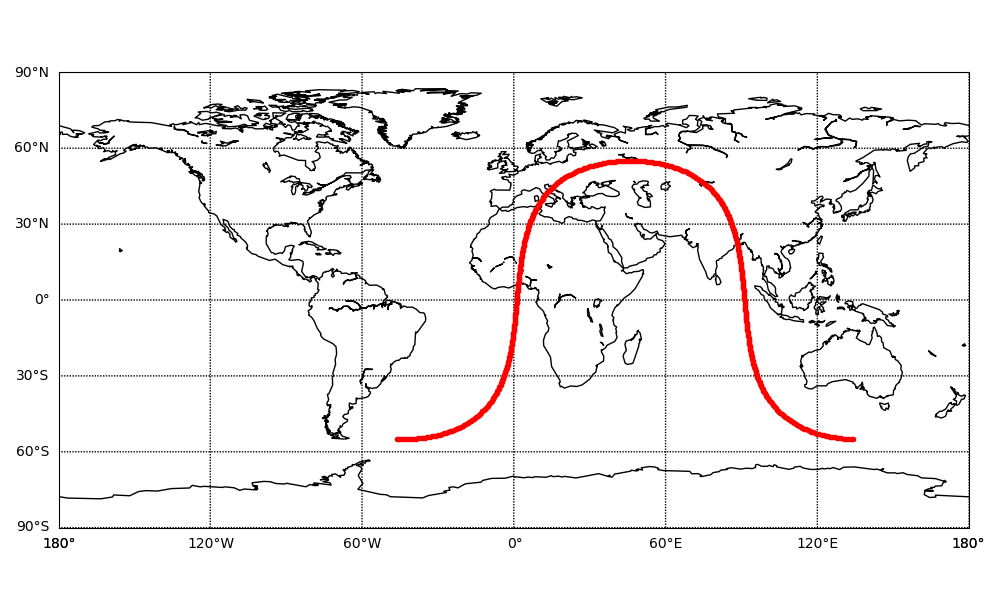
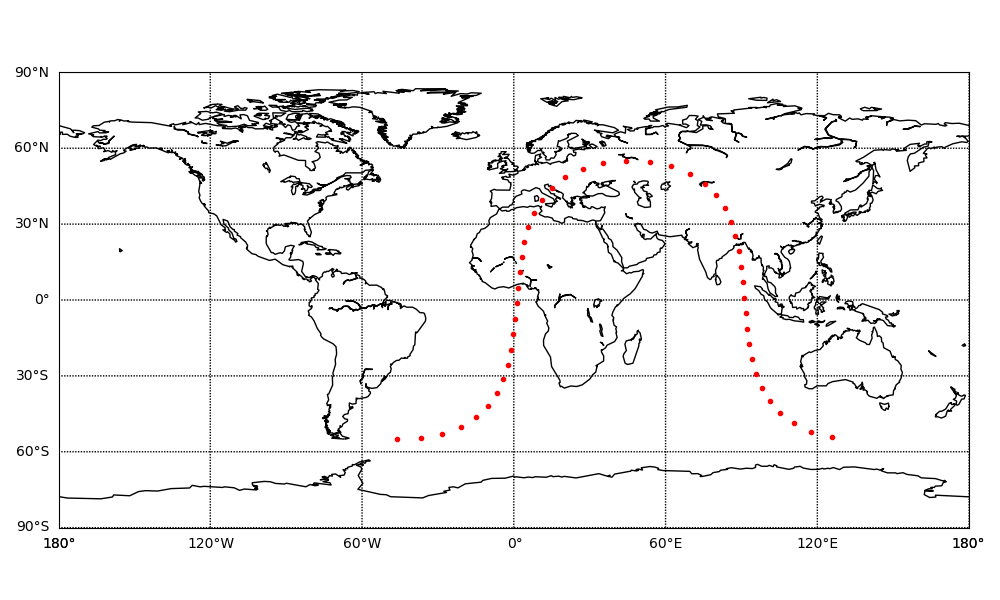
changed the figures edge spacing

diff --git a/analysis.py b/analysis.py
@@ -56,8 +56,7 @@ class AnalysisCovDepthOfCoverage(AnalysisBase):
             satellite.metric[sm.cnt_epoch, 2] = satellite.num_stat_in_view
 
     def after_loop(self, sm):
-        fig = plt.figure(figsize=(10, 6))
-        plt.subplots_adjust(left=.1, right=.95, top=0.95, bottom=0.07)
+        fig = plt.figure(figsize=(10, 5))
         for satellite in sm.satellites:
             plt.scatter(satellite.metric[:, 1], satellite.metric[:, 0],
                         c=satellite.metric[:, 2])
@@ -68,6 +67,7 @@ class AnalysisCovDepthOfCoverage(AnalysisBase):
         for station in sm.stations:
             plt.plot(degrees(station.lla[1]), degrees(station.lla[0]), 'r^')
         m.drawcoastlines()
+        plt.subplots_adjust(left=.12, right=.999, top=0.999, bottom=0.01)
         plt.text(50, 80, 'Red triangles: station locations')
         plt.savefig('output/'+self.type+'.png')
         plt.show()
@@ -107,8 +107,7 @@ class AnalysisCovGroundTrack(AnalysisBase):
 
     def after_loop(self, sm):
 
-        fig = plt.figure(figsize=(10, 6))
-        plt.subplots_adjust(left=.1, right=.95, top=0.95, bottom=0.07)
+        fig = plt.figure(figsize=(10, 5))
         m = Basemap(projection='cyl', lon_0=0)
         m.drawparallels(np.arange(-90., 99., 30.), labels=[True, False, False, True])
         m.drawmeridians(np.arange(-180., 180., 60.), labels=[True, False, False, True])
@@ -124,7 +123,7 @@ class AnalysisCovGroundTrack(AnalysisBase):
                 y, x = satellite.metric[:, 0], satellite.metric[:, 1]
                 plt.plot(x, y, '+', label=str(satellite.sat_id))
             plt.legend(fontsize=8)
-        plt.tight_layout()
+        plt.subplots_adjust(left=.08, right=.95, top=0.9, bottom=0.1)
         plt.savefig('output/'+self.type+'.png')
         plt.show()
 
@@ -153,14 +152,13 @@ class AnalysisCovPassTime(AnalysisBase):
                     user.metric[sm.cnt_epoch, user.idx_sat_in_view[j]] = True
 
     def after_loop(self, sm):
-        fig = plt.figure(figsize=(10, 6))
-        plt.subplots_adjust(left=.1, right=.9, top=0.99, bottom=0.01)
+        fig = plt.figure(figsize=(10, 5))
         lats, lons = [], []
         time_step = int((self.times_mjd[1] - self.times_mjd[0]) * 86400)
         metric = np.zeros(len(sm.users))
-        for idx_usr, user in sm.users:
+        for idx_usr, user in enumerate(sm.users):
             valid_value_list = []  # Define and clear
-            for idx_sat, satellite in sm.satellites:
+            for idx_sat, satellite in enumerate(sm.satellites):
                 for idx_tim in range(1, len(self.times_f_doy)):  # Loop over time (ignoring first)
                     if user.metric[idx_tim - 1][idx_sat] and not user.metric[idx_tim][idx_sat]:  # End pass detected
                         length_of_pass = 1  # Compute the length of the pass
@@ -201,6 +199,7 @@ class AnalysisCovPassTime(AnalysisBase):
         m.drawcoastlines()
         cb = m.colorbar(im1, "right", size="2%", pad="2%")
         cb.set_label(self.statistic + ' Pass Time Interval [s]', fontsize=10)
+        plt.subplots_adjust(left=.1, right=.9, top=0.9, bottom=0.1)
         plt.savefig('output/'+self.type+'.png')
         plt.show()
 
@@ -211,6 +210,7 @@ class AnalysisCovSatelliteContour(AnalysisBase):
         super().__init__()
         self.constellation_id = 0  # Mandatory
         self.satellite_id = ''  # Mandatory
+        self.elevation_mask = 0  # Mandatory
         self.idx_found_satellite = 0
 
     def read_config(self, node):
@@ -218,6 +218,8 @@ class AnalysisCovSatelliteContour(AnalysisBase):
             self.constellation_id = int(node.find('ConstellationID').text)
         if node.find('SatelliteID') is not None:
             self.satellite_id = int(node.find('SatelliteID').text)
+        if node.find('ElevationMask') is not None:
+            self.elevation_mask = float(node.find('ElevationMask').text)
 
     def before_loop(self, sm):
         # Find the index of the satellite that is needed
@@ -231,15 +233,15 @@ class AnalysisCovSatelliteContour(AnalysisBase):
         pass
 
     def after_loop(self, sm):
-        fig = plt.figure(figsize=(10, 6))
-        plt.subplots_adjust(left=.1, right=.95, top=0.95, bottom=0.07)
+        fig = plt.figure(figsize=(10, 5))
         sm.satellites[self.idx_found_satellite].det_lla()
         contour = misc_fn.sat_contour(sm.satellites[self.idx_found_satellite].lla, self.elevation_mask)
         m = Basemap(projection='cyl', lon_0=0)
         m.drawparallels(np.arange(-90., 99., 30.), labels=[True, False, False, True])
         m.drawmeridians(np.arange(-180., 180., 60.), labels=[True, False, False, True])
         m.drawcoastlines()
-        plt.plot(degrees(contour[:, 1]), degrees(contour[:, 0]), 'r.')
+        plt.plot(contour[:, 1]/PI*180, contour[:, 0]/PI*180, 'r.')
+        plt.subplots_adjust(left=.1, right=.9, top=0.9, bottom=0.1)
         plt.savefig('output/'+self.type+'.png')
         plt.show()
 
@@ -249,10 +251,13 @@ class AnalysisCovSatelliteHighest(AnalysisBase):
     def __init__(self):
         super().__init__()
         self.statistic = ''  # Mandatory
+        self.constellation_id = 0  # Mandatory
 
     def read_config(self, node):
         if node.find('Statistic') is not None:
             self.statistic = node.find('Statistic').text
+        if node.find('ConstellationID') is not None:
+            self.constellation_id = int(node.find('ConstellationID').text)
 
     def before_loop(self, sm):
         for user in sm.users:
@@ -269,8 +274,7 @@ class AnalysisCovSatelliteHighest(AnalysisBase):
             user.metric[sm.cnt_epoch] = best_satellite_value
 
     def after_loop(self, sm):
-        fig = plt.figure(figsize=(10, 6))
-        plt.subplots_adjust(left=.1, right=.9, top=0.99, bottom=0.01)
+        fig = plt.figure(figsize=(10, 5))
         metric, lats, lons = [], [], []
         for user in sm.users:
             if self.statistic == 'Min':
@@ -295,6 +299,7 @@ class AnalysisCovSatelliteHighest(AnalysisBase):
         m.drawcoastlines()
         cb = m.colorbar(im1, "right", size="2%", pad="2%")
         cb.set_label(self.statistic + ' of Max Elevation satellites in view', fontsize=10)
+        plt.subplots_adjust(left=.1, right=.9, top=0.9, bottom=0.1)
         plt.savefig('output/'+self.type+'.png')
         plt.show()
 
@@ -427,7 +432,7 @@ class AnalysisCovSatelliteVisibleGrid(AnalysisBase):
 
     def read_config(self, node):
         if node.find('Statistic') is not None:
-            self.statistic = int(node.find('Statistic').text)
+            self.statistic = node.find('Statistic').text
 
     def before_loop(self, sm):
         for user in sm.users:
@@ -438,9 +443,9 @@ class AnalysisCovSatelliteVisibleGrid(AnalysisBase):
             user.metric[sm.cnt_epoch] = user.num_sat_in_view
 
     def after_loop(self, sm):
-        fig = plt.figure(figsize=(10, 6))
+        fig = plt.figure(figsize=(10, 5))
         plt.subplots_adjust(left=.1, right=.9, top=0.99, bottom=0.01)
-        metric, lats, lons = [], [], []
+        metric, latitudes, longitudes = [], [], []
         for user in sm.users:
             if self.statistic == 'Min':
                 metric.append(np.min(user.metric))
@@ -452,10 +457,10 @@ class AnalysisCovSatelliteVisibleGrid(AnalysisBase):
                 metric.append(np.std(user.metric))
             if self.statistic == 'Median':
                 metric.append(np.median(user.metric))
-            lats.append(degrees(user.lla[0]))
-            lons.append(degrees(user.lla[1]))
-        x_new = np.reshape(np.array(lons), (sm.users[0].num_lat, sm.users[0].num_lon))
-        y_new = np.reshape(np.array(lats), (sm.users[0].num_lat, sm.users[0].num_lon))
+            latitudes.append(degrees(user.lla[0]))
+            longitudes.append(degrees(user.lla[1]))
+        x_new = np.reshape(np.array(longitudes), (sm.users[0].num_lat, sm.users[0].num_lon))
+        y_new = np.reshape(np.array(latitudes), (sm.users[0].num_lat, sm.users[0].num_lon))
         z_new = np.reshape(np.array(metric), (sm.users[0].num_lat, sm.users[0].num_lon))
         m = Basemap(projection='cyl', lon_0=0)
         im1 = m.pcolormesh(x_new, y_new, z_new, shading='flat', cmap=plt.cm.jet, latlon=True)
@@ -463,7 +468,8 @@ class AnalysisCovSatelliteVisibleGrid(AnalysisBase):
         m.drawmeridians(np.arange(-180., 180., 60.), labels=[True, False, False, True])
         m.drawcoastlines()
         cb = m.colorbar(im1, "right", size="2%", pad="2%")
-        cb.set_label(self.Statistic + ' Number of satellites in view', fontsize=10)
+        cb.set_label(self.statistic + ' Number of satellites in view', fontsize=10)
+        plt.subplots_adjust(left=.1, right=.9, top=0.9, bottom=0.1)
         plt.savefig('output/'+self.type+'.png')
         plt.show()
 

diff --git a/config.py b/config.py
@@ -264,7 +264,7 @@ class AppConfig:
                     self.gr2sp[idx_station][idx_sat].link_in_use = True
                 else:
                     self.gr2sp[idx_station][idx_sat].link_in_use = False
-        ls.logger.info(["Loaded: ", len(self.gr2sp), " number of Ground Station to Spacecraft links"])
+        ls.logger.info(f'Loaded {len(self.gr2sp)*self.num_sat} number of Station to Spacecraft links')
 
         # USER <->SATELLITE LINKS
         self.usr2sp = [[User2SpaceLink() for j in range(self.num_sat)] for i in range(self.num_user)]
@@ -274,7 +274,7 @@ class AppConfig:
                     self.usr2sp[idx_user][idx_sat].link_in_use = True
                 else:
                     self.usr2sp[idx_user][idx_sat].link_in_use = False
-        ls.logger.info(["Loaded: ", len(self.usr2sp), " number of User to Spacecraft links"])
+        ls.logger.info(f'Loaded {len(self.usr2sp)*self.num_sat} number of User to Spacecraft links')
 
         # SATELLITE <->SATELLITE LINKS
         self.sp2sp = [[Space2SpaceLink() for j in range(self.num_sat)] for i in range(self.num_sat)]
@@ -283,11 +283,11 @@ class AppConfig:
                 if idx_sat1 != idx_sat2:  # avoid link to itself
                     self.sp2sp[idx_sat1][idx_sat2].idx_sat_tx = idx_sat1
                     self.sp2sp[idx_sat1][idx_sat2].idx_sat_rx = idx_sat2
-        ls.logger.info(["Loaded: ", len(self.sp2sp), " number of Spacecraft to Spacecraft links"])
+        ls.logger.info(f'Loaded {len(self.sp2sp)*self.num_sat} number of Spacecraft to Spacecraft links')
 
         # Allocate the memory for the lists of links
         for j in range(self.num_sat):
-            self.satellites[j].idx_stat_in_view = self.num_station * [999999]
+            self.satellites[j].idx_stat_in_view = self.num_station * [999999]  # TODO is this the proper way to do it?
         for j in range(self.num_user):
             self.users[j].idx_sat_in_view = self.num_sat*[999999]
 
@@ -303,9 +303,9 @@ class AppConfig:
             self.include_gr2sp = str2bool(sim.find('IncludeStation2SpaceLinks').text)
             self.include_usr2sp = str2bool(sim.find('IncludeUser2SpaceLinks').text)
             self.include_sp2sp = str2bool(sim.find('IncludeSpace2SpaceLinks').text)
-            ls.logger.info(['Loaded simulation, start:', str(self.start_time), 'stop:', str(self.stop_time),
-                            'TimeStep', str(self.time_step)])
 
+            ls.logger.info(f'Loaded simulation, start MJD: {self.start_time}, stop MJD: {self.stop_time},' +
+                           f' number of time steps: {self.time_step}')
             for analysis_node in root.iter('Analysis'):  # Only one analysis can be performed at a time
                 if analysis_node.find('Type').text == 'cov_ground_track':
                     self.analysis = AnalysisCovGroundTrack()
@@ -327,6 +327,7 @@ class AppConfig:
                     self.analysis = AnalysisCovSatelliteVisibleGrid()
                 if analysis_node.find('Type').text == 'cov_satellite_visible_id':
                     self.analysis = AnalysisCovSatelliteVisibleId()
+                self.analysis.type = analysis_node.find('Type').text
                 self.analysis.read_config(analysis_node)  # Read the configuration for the specific analysis
 
         self.num_epoch = floor(86400 * (self.stop_time - self.start_time) / self.time_step)

diff --git a/main.py b/main.py
@@ -105,7 +105,7 @@ def main():
 
     sm = load_configuration()  # load config into sm status machine holds status of sat, station, user and links
     sm.analysis.before_loop(sm)  # Run analysis which is needed before time loop
-    ls.logger.info('Read configuration file')
+    ls.logger.info('Finished reading configuration file')
 
     while round(sm.time_mjd * 86400) < round(sm.stop_time * 86400):  # Loop over simulation time window
 
@@ -119,10 +119,10 @@ def main():
 
         sm.cnt_epoch += 1
         sm.time_mjd += sm.time_step / 86400.0 # Update time
-        ls.logger.info(['Sim Time:', sm.time_str, 'Time Step:', str(sm.cnt_epoch)])
+        ls.logger.info(f'Simulation time: {sm.time_str}, time step: {sm.cnt_epoch}')
 
     sm.analysis.after_loop(sm)  # Run analysis after time loop
-    ls.logger.info(['Plot Analysis:', sm.analysis.type])
+    ls.logger.info(f'Plotting analysis {sm.analysis.type}')
 
 
 if __name__ == '__main__':

diff --git a/constants.py b/constants.py
@@ -23,7 +23,7 @@ R_SUN = 6.9599e8  # Radius Sun [m] Seidelmann 1992
 R_EARTH = 6378136.3  # Radius Earth [m] EGM2008 & EGM96
 R_MOON = 1738.200e3
 
-omega_Earth = 7.29211514670698e-5  # [rad/s]Aoki 1982, NIMA 1997  Earth rotation
+OMEGA_EARTH = 7.29211514670698e-5  # [rad/s]Aoki 1982, NIMA 1997  Earth rotation
 
 # Gravitational coefficientS
 GM_EARTH = 398600.4415e+9  # [m^3/s^2]JGM3

diff --git a/readme.md b/readme.md
@@ -19,7 +19,7 @@ parameters and analysis are defined. Analysis can be added as wished, the baseli
 - __cov_satellite_contour__: Satellite ground visibility contour at StopDate
 - __cov_satellite_sky_angles__: Satellite Azimuth and Elevation for selected user (also spacecraft user)
 - __cov_satellite_highest__: Satellite elevation statistics for highest satellite in view for user grid
-- __cov_depth_of_coverage__: Number of station in view of each satellite, depth of coverage (DOC) based on satellite ground track
+- __cov_depth_of_coverage__: Depth of station coverage (DOC) based on satellite ground track
 - __cov_pass_time__: Satellite passes time statistics for user grid
 
 To be implemented at a later stage:
